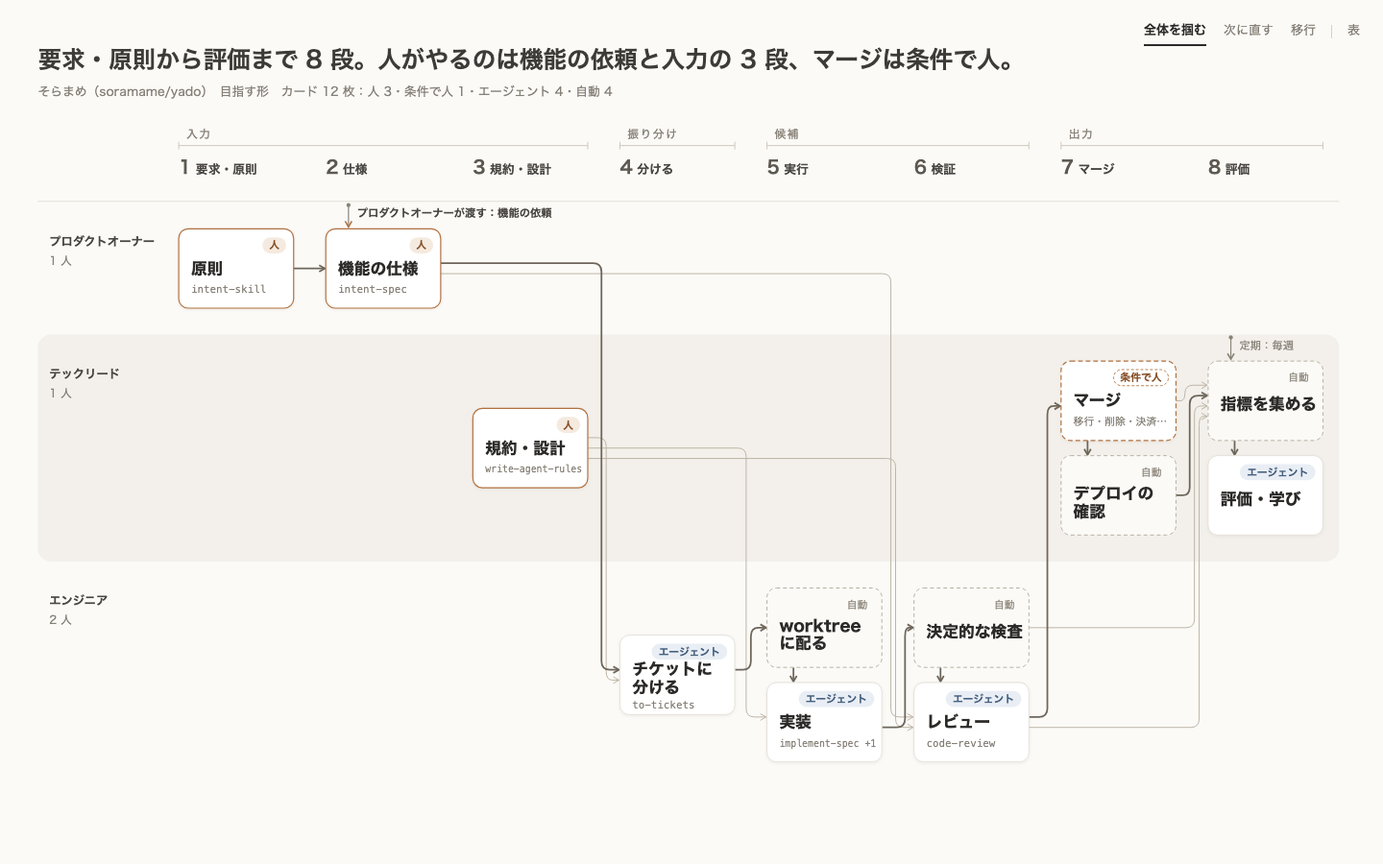
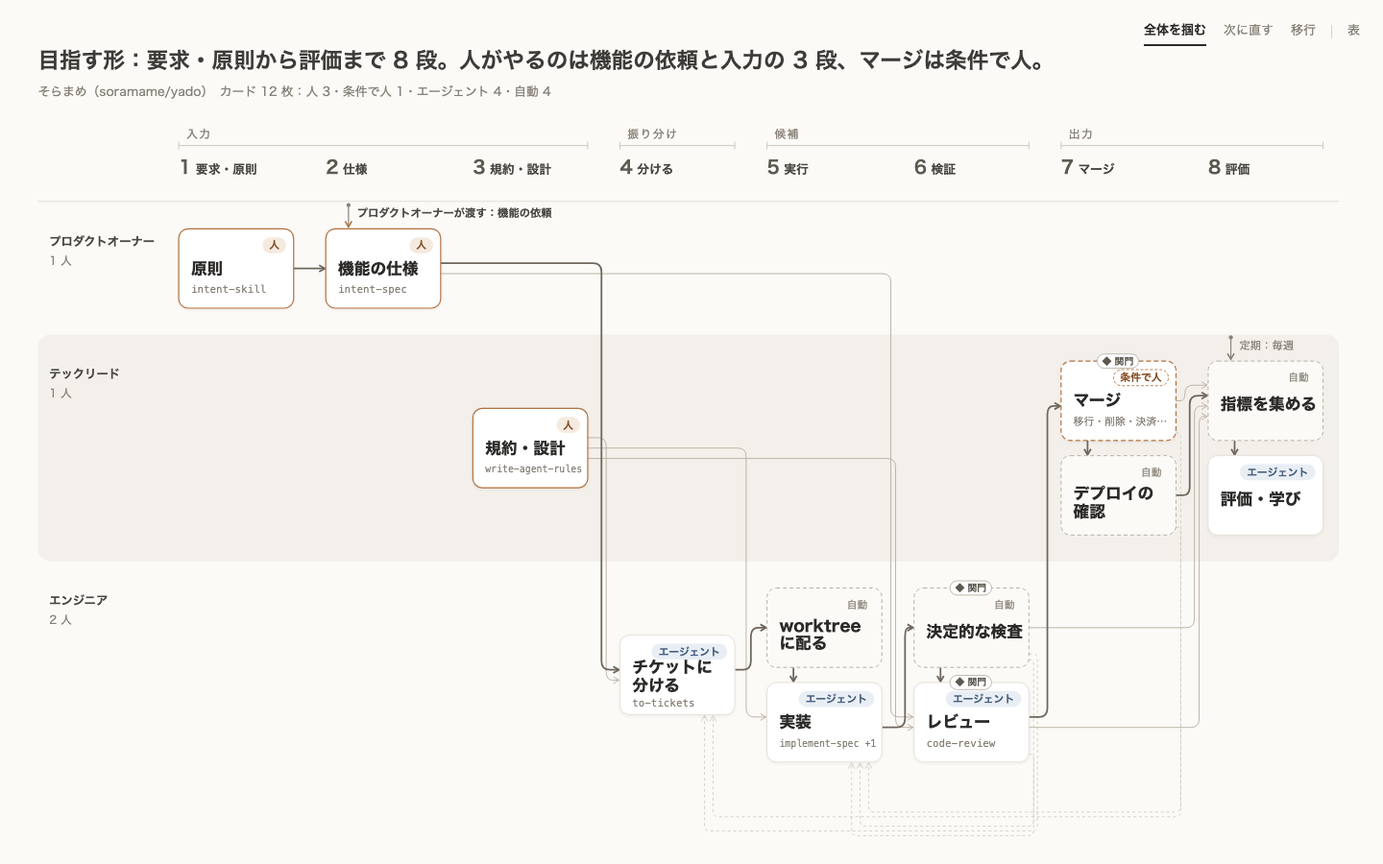
fix: 評価の直す順の案で図を直す（I1・c3・b の置き換え予定・V1 ほか）
- a：関門に小さな印、直しの線を細く薄い破線で出す（学びは出さない）。見出しの頭に「目指す形：」
- b：1 位のカードがこの先で置き換わるとき、見出しと 1 位の行に添える。「直しで戻る 2 本」
- c：選んだ段階の足りないものを中身まで出す。選んだ段階を見方を移っても残す（p=）
- 詳細の窓と表：短い名前を先に、題名を下に。足りないもの・戻り道は 1 行ずつ
- 表：ページそのものがスクロールする（キーボード・PageDown）
- 1280 幅の b・c：一覧を出したまま、名前を 14px 以上（見せ方 V1）
- 設計書：I1・V1 を決まったことへ移し、c3 の基準と決まったこと 7 を直す。試験を足す

diff --git a/create-frontier-team/canvas.html b/create-frontier-team/canvas.html
@@ -67,6 +67,10 @@
   .ph b { font-size: 13px; display: block; }
   .ph .n { display: block; color: #857f76; font-size: 11.5px; }
   .ph small { display: block; color: #5d5850; }
+  .ph ul { list-style: none; margin: 6px 0 0; padding: 6px 0 0; border-top: 1px solid #ece7df; }
+  .ph li { margin: 0 0 4px; color: #3d3b38; }
+  .ph li b { display: inline; font-size: 12px; margin-right: 4px; }
+  .g small { display: block; color: #857f76; font-size: 11.5px; margin-top: 2px; }
   .d { background: #fff; border: 1px solid #e6e1d8; border-radius: 8px; padding: 7px 10px; margin-bottom: 6px; }
   .d b { display: inline-block; min-width: 6.6em; font-size: 12px; }
   .d span { color: #3d3b38; }
@@ -74,13 +78,16 @@
   /* 詳細の窓（popover。モーダルにしない） */
   #tip { position: fixed; width: 350px; padding: 12px 14px; font-size: 12px; line-height: 1.65; background: #fff; border: 1px solid #e3ded5; border-radius: 10px; box-shadow: 0 2px 8px rgba(90,74,48,.10); z-index: 6; }
   #tip[hidden] { display: none; }
-  #tip h2 { font-size: 14px; margin: 0 26px 6px 0; }
+  #tip h2 { font-size: 14px; margin: 0 26px 0 0; }
+  #tip .full { color: #857f76; margin: 0 26px 6px 0; }
   #tip .x { position: absolute; right: 8px; top: 6px; border: 0; background: none; font-size: 16px; color: #857f76; cursor: pointer; padding: 0 4px; }
   #tip .r > span:first-child { display: inline-block; width: 6.4em; color: #857f76; vertical-align: top; }
   #tip.dock { column-width: 250px; column-gap: 24px; font-size: 11.5px; line-height: 1.55; padding: 10px 14px; overflow: auto; box-shadow: none; }
   #tip.dock h2 { column-span: all; }
   #tip.dock .r, #tip.dock li { break-inside: avoid; }
   #tip ul { list-style: none; padding: 0; margin: 4px 0 0; }
+  #tip ul.lines { display: inline-block; margin: 0; width: calc(100% - 6.4em); }
+  #tip ul.lines li { padding-left: 0; margin: 0 0 2px; }
   #tip li { margin: 0 0 6px; padding-left: 14px; position: relative; }
   #tip li i { position: absolute; left: 0; top: 6px; width: 7px; height: 7px; border-radius: 50%; background: #b8b0a3; }
   #tip li i.hum { background: #b0713f; }
@@ -93,7 +100,8 @@
   #tip li[aria-current="true"] { background: #f6f3ee; border-radius: 4px; }
 
   /* 表（見方とは別の、全文を読む・探す・印刷する所） */
-  #table { position: fixed; inset: 0; overflow: auto; padding: 64px 28px 28px; background: #fbfaf7; font-size: 12.5px; line-height: 1.55; }
+  #table { position: absolute; top: 0; left: 0; right: 0; min-height: 100%; padding: 64px 28px 28px; background: #fbfaf7; font-size: 12.5px; line-height: 1.55; outline: none; }
+  body[data-table] #top { background: #fbfaf7; padding: 4px 0 4px 12px; border-radius: 6px; }
   #table[hidden] { display: none; }
   #table h2 { font-size: 15px; margin: 0 0 10px; color: #3d3b38; }
   #table h3 { font-size: 13px; margin: 22px 0 8px; color: #3d3b38; }
@@ -101,6 +109,7 @@
   #table th, #table td { border: 1px solid #e3ded5; padding: 6px 8px; text-align: left; vertical-align: top; }
   #table th { background: #f3f0eb; font-weight: 600; white-space: nowrap; }
   #table td:nth-child(-n+2) { white-space: nowrap; }
+  #table td small { display: block; color: #857f76; }
   #table code { font-family: "SF Mono", Menlo, monospace; font-size: 11.5px; }
   #table ol { margin: 4px 0 0; padding-left: 18px; color: #5d5850; }
   @media print { #top { display: none; } #table { position: static; padding: 0; } }
@@ -121,7 +130,7 @@
 <main id="wrap" role="tabpanel"></main>
 <aside id="panel" aria-label="一覧"></aside>
 <div id="tip" role="dialog" aria-modal="false" aria-labelledby="tipTitle" hidden></div>
-<section id="table" aria-label="表" hidden></section>
+<section id="table" aria-label="表" tabindex="0" hidden></section>
 <script>
 (() => {
   "use strict";
@@ -364,6 +373,18 @@
     const ed = edges.filter((e) => e.kind === "data" && now(e) !== was(e) && [e.from, e.to].every((id) => now(byId.get(id)) && was(byId.get(id)))).map((e) => ({ e, added: now(e) }));
     return { add, rem, rep, chg, edges: ed };
   };
+  // b の 1 位のカードが、今の段階より後で無くなる・置き換わるなら、そう言う（決まったこと 7。重さの順は変えない）
+  const phShort = (i) => phases[i].name.split("：")[0].trim() || phases[i].name;
+  const laterOf = (o) => {
+    if (!phases.length) return "";
+    for (const id of o.nodes) {
+      const n = byId.get(id), u = n.until ? phaseIx.get(n.until) : -1;
+      if (u <= CUR) continue;
+      return phShort(u) + (diffAt(u).rep.some((r) => r.from.includes(id)) ? " で置き換える予定" : " で無くす予定");
+    }
+    return "";
+  };
+  const laterNote = (o) => { const t = laterOf(o); return t ? "（" + t + "）" : ""; };
   const changeOf = (df, id) => {
     if (df.add.includes(id)) return "足す";
     const r = df.rep.find((q) => q.to.includes(id) || q.from.includes(id));
@@ -529,6 +550,29 @@
     const k = soft >= cut * 0.3 ? soft : kind >= cut * 0.3 ? kind : cut;
     return k;
   };
+  // カードの名前は 17（1440×900 でどの見方でも 14px 以上）。1 行に収まらなければ 2 行にし、それでも収まらなければ … で切る。
+  // b・c で一覧のぶん図が小さくなり、名前が 14px を下回るとき（1280 幅など）だけ、名前の字を大きくして 14px 以上にする（見せ方 V1）。
+  const NAME = 17;
+  const setName = (n, fs) => {
+    if (n.fs === fs) return;
+    n.fs = fs; n.nm.setAttribute("font-size", fs);
+    if (!n.lineMemo.has(fs)) {
+      n.nm.replaceChildren(); n.nm.textContent = n.card;
+      let lines;
+      if (n.nm.getComputedTextLength() <= room) lines = [n.card];
+      else {
+        const s = n.card; let cut = 1;
+        for (let k = 1; k < s.length; k++) { n.nm.textContent = s.slice(0, k); if (n.nm.getComputedTextLength() <= room) cut = k; else break; }
+        cut = breakAt(s, cut);
+        n.nm.textContent = s.slice(cut).trim(); fitText(n.nm, s.slice(cut).trim());
+        lines = [s.slice(0, cut).trim(), n.nm.textContent];
+      }
+      n.lineMemo.set(fs, lines);
+    }
+    n.lines = n.lineMemo.get(fs);
+    const { x } = P.get(n.id);
+    n.nm.replaceChildren(); n.lines.forEach((ln) => { const t = sv("tspan", { x: x + 13 }, n.nm); t.textContent = ln; });
+  };
   nodes.forEach((n) => {
     const { x, y } = P.get(n.id);
     const g = sv("g", { class: "card", "data-node-id": n.id, role: "button", tabindex: -1, "aria-haspopup": "dialog", "aria-expanded": "false" }, lay.card);
@@ -539,6 +583,12 @@
     n.tl = tx(g, x + 13, y + 21, "", { "font-size": 10.5, "font-family": GOTH });
     n.nm = tx(g, x + 13, y + 48, "", { "font-size": 17, "font-weight": 700, fill: INK, "font-family": GOTH });
     n.sub = tx(g, x + 13, y + 68, "", { "font-size": 11, "font-family": GOTH });
+    // 関門の印（a）：カードの上の縁に載せる小さな札。右上の関わりの札と、上から入る矢印（左から 28）を避ける
+    if (n.kind === "gate") {
+      n.gateG = sv("g", { class: "gate" }, g);
+      sv("rect", { x: x + 38, y: y - 7.5, width: 44, height: 15, rx: 7.5, fill: "#fff", stroke: "#b8b0a3", "stroke-width": 0.9 }, n.gateG);
+      tx(n.gateG, x + 60, y + 3.6, "◆ 関門", { "font-size": 10, "font-weight": 600, fill: "#5d5850", "text-anchor": "middle", "font-family": GOTH });
+    }
     n.dots = sv("g", {}, g);
     n.checks.forEach((c, i) => { c.dot = sv("circle", { "data-check-id": c.key, cy: y + 17, r: 2.8 }, n.dots); });
     n.marksG = sv("g", {}, g);
@@ -551,23 +601,14 @@
     }
     n.muted = ms.length > 0 && ms.every((m) => m.level === "muted");
     n.g = g;
-    // カードの名前は 17（1440×900 でどの見方でも 14px 以上）。1 行に収まらなければ 2 行にし、それでも収まらなければ … で切る。
-    n.nm.textContent = n.card;
-    if (n.nm.getComputedTextLength() <= room) n.lines = [n.card];
-    else {
-      const s = n.card; let cut = 1;
-      for (let k = 1; k < s.length; k++) { n.nm.textContent = s.slice(0, k); if (n.nm.getComputedTextLength() <= room) cut = k; else break; }
-      cut = breakAt(s, cut);
-      n.nm.textContent = s.slice(cut).trim(); fitText(n.nm, s.slice(cut).trim());
-      n.lines = [s.slice(0, cut).trim(), n.nm.textContent];
-    }
-    n.nm.textContent = "";
-    n.lines.forEach((ln) => { const t = sv("tspan", { x: x + 13 }, n.nm); t.textContent = ln; });
+    n.lineMemo = new Map(); n.fs = 0;
+    setName(n, NAME);
   });
 
   // ---- 状態 ----
   const CUR = Math.max(0, phases.findIndex((ph) => ph.current));
   const S = { view: "a", p: NP - 1, sel: null, selList: null, ck: null, gap: null, table: false };
+  let nameFS = NAME;
   const effP = () => (S.view === "a" ? NP - 1 : S.view === "b" ? CUR : S.p);
   const VB = () => (S.view === "a" ? [0, W] : [32, W - 48]);
 
@@ -586,17 +627,18 @@
         ...uniq(HN.filter((n) => !(inAll && inSt.includes(n.stage))).map((n) => stName(n.stage))),
       ];
       const cst = uniq(Cn.map((n) => stName(n.stage)));
-      const h = stages[0].name + "から" + stages[stages.length - 1].name + "まで " + stages.length + " 段。" +
+      // どの段階の図かを見出しの頭で言う（a は最後の段階＝目指す形で判定する）
+      const h = (phases.length ? phName(p) + "：" : "") + stages[0].name + "から" + stages[stages.length - 1].name + "まで " + stages.length + " 段。" +
         (items.length ? "人がやるのは" + uniq(items).join("と") + (cst.length ? "、" + cst.join("・") + "は条件で人" : "") + "。" : cst.length ? "人は" + cst.join("・") + "で条件つきで関わる。" : "人は関わらない。");
       const cnt = (k) => ns.filter((n) => INV(n, p) === k).length;
-      return [h, [teamLine, phName(p), `カード ${ns.length} 枚：人 ${cnt("human")}・条件で人 ${cnt("cond")}・エージェント ${cnt("agent")}・自動 ${cnt("auto")}`].filter(Boolean).join("　")];
+      return [h, [teamLine, `カード ${ns.length} 枚：人 ${cnt("human")}・条件で人 ${cnt("cond")}・エージェント ${cnt("agent")}・自動 ${cnt("auto")}`].filter(Boolean).join("　")];
     }
     if (view === "b") {
       const at = phases.length ? "今の段階「" + phName(p) + "」で判定。" : "";
       const l = G.list;
       if (!l.length) return [(phases.length ? "今の段階「" + phName(p) + "」で" : "") + "足りないものは無い。", at + "　" + teamLine];
       const t = l[0], nm = t.nodes.length ? "「" + t.nodes.map(short).join("・") + "」" : gapWho(t);
-      return ["次に直すのは" + nm + "：" + t.text.split("。")[0] + (t.checkTitles.length > 1 ? "（" + t.checkTitles.join("・") + "）" : "") + "。",
+      return ["次に直すのは" + nm + laterNote(t) + "：" + t.text.split("。")[0] + (t.checkTitles.length > 1 ? "（" + t.checkTitles.join("・") + "）" : "") + "。",
         at + "足りないもの " + l.length + " 件（重さの順に右の一覧）　" + teamLine];
     }
     if (!phases.length) return ["移行の段階は書かれていない。", "仕様書に phases を書くと、今から目指す形までの段階をここで切り替えて見られる。　" + teamLine];
@@ -630,6 +672,12 @@
     document.getElementById("tableBtn").setAttribute("aria-pressed", String(S.table));
     document.querySelectorAll("#views [role=tab]").forEach((b) => { const on = b.dataset.v === view; b.setAttribute("aria-selected", String(on)); b.tabIndex = on ? 0 : -1; });
     wrap.setAttribute("aria-labelledby", "tab-" + view);
+    renderFold();
+    // 図の倍率で名前が 14px を下回るなら、名前の字を大きくする（1280 幅の b・c。見せ方 V1）
+    if (!S.table) {
+      const wr = wrap.getBoundingClientRect(), sc = Math.min(wr.width / vw, wr.height / H);
+      nameFS = sc > 0 ? Math.min(21, Math.max(NAME, Math.ceil(14.05 / sc * 2) / 2)) : NAME;
+    }
 
     // 見出し
     const [h1, h2] = headline(view, p, G, df);
@@ -667,9 +715,10 @@
     if (view === "b") {
       groupBy(edges.filter((e) => e.kind !== "data" && liveE(e)), (e) => e.to).forEach((l, to) => {
         const b = P.get(to), kinds = uniq(l.map((e) => e.kind));
-        const t = kinds.map((k) => { const c = l.filter((e) => e.kind === k).length; return EDGE_KIND[k] + (c > 1 ? " " + c : ""); }).join("・");
+        // 数と分かる言い方にする（「直しで戻る 2 本」）
+        const t = kinds.map((k) => EDGE_KIND[k] + "で戻る " + l.filter((e) => e.kind === k).length + " 本").join("・");
         const maxBi = Math.max(...BACK.filter((e) => e.to === to).map((e) => e.bi));
-        tx(lay.dyn, b.x + TW - 14 - maxBi * 9 - 8, b.y + TH + 15, "戻る：" + t, { "font-size": 10.5, fill: "#7d7468", "text-anchor": "end", "font-family": GOTH });
+        tx(lay.dyn, b.x + TW - 14 - maxBi * 9 - 8, b.y + TH + 15, t, { "font-size": 10.5, fill: "#7d7468", "text-anchor": "end", "font-family": GOTH });
       });
     }
 
@@ -680,7 +729,11 @@
     const goneE = new Set(view === "c" ? df.edges.filter((x) => !x.added).map((x) => x.e.id) : []);
     edges.forEach((e) => {
       let show, col = "#bdb4a6", w = 1, dash = null, layer = lay.thin;
-      if (e.kind !== "data") {
+      if (e.kind !== "data" && view === "a") {
+        // a：直しの線は細く薄い破線で、いつも出す（データの線より軽く。学びの線は出さない。情報 I1）
+        show = e.kind === "fix" && liveE(e);
+        col = "#cdc5b8"; w = 0.8; dash = "3 3"; layer = lay.back;
+      } else if (e.kind !== "data") {
         show = view === "b" && liveE(e) && (selIds.has(e.from) || selIds.has(e.to));
         col = "#7d7468"; w = 1.1; dash = e.kind === "fix" ? "5 3" : "1.5 3"; layer = lay.back;
       } else if (goneE.has(e.id)) { show = true; col = "#a39a8c"; w = 1.2; dash = "2 3"; }
@@ -711,6 +764,7 @@
       n.g.style.opacity = n.muted && view !== "c" ? 0.5 : "";
       n.badge.style.display = "none"; n.dots.style.display = "none"; n.sub.textContent = ""; n.sub.removeAttribute("textLength"); n.sub.removeAttribute("lengthAdjust"); n.tl.textContent = "";
       n.marksG.style.display = view === "c" || gh ? "none" : "";
+      if (n.gateG) n.gateG.style.display = view === "a" && !gh ? "" : "none";
       let label = [n.card, INVL[inv], "段 " + (stageIx.get(n.stage) + 1) + "「" + stName(n.stage) + "」", roName(n.role)];
       if (gh) {
         n.frame.setAttribute("fill", "none"); n.frame.setAttribute("stroke", "#b8b0a3"); n.frame.setAttribute("stroke-width", 1); n.frame.setAttribute("stroke-dasharray", "3 3"); n.frame.removeAttribute("filter");
@@ -736,7 +790,8 @@
           n.badgeT.setAttribute("x", lx + lw / 2); n.badgeT.textContent = lb;
           n.badgeT.setAttribute("fill", hu || cd ? HUMTX : au ? "#958e83" : AGTX); n.badgeT.setAttribute("font-weight", au ? 400 : 600);
         }
-        // 左上：b は関門の戻しにくさ、c は段階での変化
+        // 左上：a は関門の印、b は関門の戻しにくさ、c は段階での変化
+        if (view === "a" && n.kind === "gate") label.push("関門");
         if (view === "b" && n.kind === "gate") {
           n.tl.textContent = RISKS[n.risk] || "戻しにくさ？"; n.tl.setAttribute("fill", n.risk === "irreversible" ? INK : SUB); n.tl.setAttribute("font-weight", n.risk === "irreversible" ? 700 : 400);
         }
@@ -776,10 +831,11 @@
         }
       }
       // 名前の位置（1 行か 2 行か、下の 1 行があるか）
-      const hasSub = !!n.sub.textContent, two = n.lines.length > 1;
-      const ys = two ? (hasSub ? [42, 61] : [46, 65]) : [hasSub ? 48 : 52];
+      setName(n, nameFS);
+      const hasSub = !!n.sub.textContent, two = n.lines.length > 1, lh = Math.round(nameFS * 1.12);
+      const ys = two ? (hasSub ? [40, 40 + lh] : [46, 46 + lh]) : [hasSub ? 48 : 52];
       [...n.nm.children].forEach((t, i) => t.setAttribute("y", y + ys[i]));
-      n.sub.setAttribute("y", y + (two ? 77 : 68));
+      n.sub.setAttribute("y", y + (two ? 75 : 68)); // 2 行のときも、下の端の注記の札（y + 77 から）に重ねない
       n.g.setAttribute("aria-label", label.join("、"));
     });
     const vis = nodes.filter((n) => n.shown);
@@ -789,13 +845,12 @@
 
     renderPanel(G, df);
     renderTip();
-    renderFold();
   };
 
   // ---- 横の一覧（b・c）：listbox ----
   const panel = document.getElementById("panel");
   const fold = el("button", null, "一覧をたたむ"); fold.id = "fold"; fold.type = "button"; fold.setAttribute("aria-controls", "panel");
-  fold.addEventListener("click", () => { document.body.toggleAttribute("data-fold"); renderFold(); placeTip(); });
+  fold.addEventListener("click", () => { document.body.toggleAttribute("data-fold"); render(); });
   const listbox = (label, id) => { const lb = el("div"); lb.setAttribute("role", "listbox"); lb.setAttribute("aria-label", label); lb.id = id; return lb; };
   const option = (cls, key, selected, onPick) => {
     const o = el("div", cls); o.setAttribute("role", "option"); o.dataset.key = key; o.setAttribute("aria-selected", String(!!selected)); o.tabIndex = -1;
@@ -817,7 +872,9 @@
         if (o.tier !== last) { grp = el("div"); grp.setAttribute("role", "group"); const t = el("div", "tier", TIER[o.tier]); t.id = "tier" + o.tier; grp.setAttribute("aria-labelledby", t.id); grp.append(t); lb.append(grp); last = o.tier; }
         const op = option("g" + (i === 0 ? " first" : ""), o.key, S.gap === o.key, () => { S.gap = o.key; S.selList = o.nodes.slice(); S.sel = o.nodes[0] || null; S.ck = o.checks.length ? o.checks.slice() : null; sync(); });
         op.append(el("b", null, gapWho(o)), el("span", null, gapText(o)));
-        op.setAttribute("aria-label", (i === 0 ? "次に直す。" : "") + gapWho(o) + "：" + gapText(o));
+        const later = i === 0 ? laterOf(o) : "";
+        if (later) op.append(el("small", null, later));
+        op.setAttribute("aria-label", (i === 0 ? "次に直す。" : "") + gapWho(o) + "：" + gapText(o) + (later ? "。" + later : ""));
         grp.append(op);
       });
       if (!G.list.length) panel.append(el("p", "sub", "足りないものは無い。"));
@@ -828,8 +885,16 @@
       const lb = listbox("段階", "phaseList");
       phases.forEach((ph, i) => {
         const op = option("ph", ph.id, i === p, () => { S.p = i; S.sel = null; S.selList = null; S.ck = null; sync(); });
-        op.append(el("b", null, ph.name + (i === CUR && phases.some((x) => x.current) ? "（今）" : "")), el("span", "n", "足りない " + gapsAt(i).list.length));
+        const gl = gapsAt(i).list;
+        op.append(el("b", null, ph.name + (i === CUR && phases.some((x) => x.current) ? "（今）" : "")), el("span", "n", "足りない " + gl.length));
         if (ph.note) op.append(el("small", null, ph.note));
+        // 選んだ段階には、残る足りないものの中身を出す（同じ理由は 1 行。並びは b と同じ重さの順。問い c3）
+        if (i === p && gl.length) {
+          const ul = el("ul"); ul.setAttribute("aria-label", ph.name + "に残る足りないもの");
+          gl.forEach((o) => { const li = el("li"); li.append(el("b", null, gapWho(o)), document.createTextNode(gapText(o))); ul.append(li); });
+          op.append(ul);
+          op.setAttribute("aria-label", ph.name + "、足りない " + gl.length + "：" + gl.map((o) => gapWho(o) + "：" + gapText(o)).join("。"));
+        }
         lb.append(op);
       });
       rove(lb); panel.append(lb);
@@ -879,10 +944,14 @@
     const view = S.view, p = effP(), G = gapsAt(p), first = G.list.length ? G.list[0] : null;
     const liveE = edges.filter((e) => aliveAt(e, p) && aliveAt(byId.get(e.from), p) && aliveAt(byId.get(e.to), p));
     tip.replaceChildren();
-    const h = el("h2", null, n.title); h.id = "tipTitle";
+    // 題はカードと同じ短い名前。題名の全文が違えば、その下に添える（図と表を照らし合わせられるように）
+    const h = el("h2", null, n.card); h.id = "tipTitle";
     const x = el("button", "x", "×"); x.type = "button"; x.setAttribute("aria-label", "詳細を閉じる"); x.addEventListener("click", () => closeTip(true));
     tip.append(h, x);
+    if (n.title !== n.card) tip.append(el("div", "full", n.title)); else h.style.marginBottom = "6px";
     const row = (k, v) => { if (v == null || v === "") return; const d = el("div", "r"); d.append(el("span", null, k), typeof v === "string" ? document.createTextNode(v) : v); tip.append(d); };
+    // 2 つ以上あるものは「／」でつながず、1 行ずつ
+    const lines = (list) => { if (!list.length) return ""; if (list.length === 1) return list[0]; const ul = el("ul", "lines"); list.forEach((t) => ul.append(el("li", null, t))); return ul; };
     const inv = INV(n, aliveAt(n, p) ? p : p - 1);
     const invText = { human: "人がやる" + (n.layer === "upstream" && n.session !== "human" ? "（エージェントが下書き）" : ""), cond: "条件で人：" + condAt(n, p), agent: "エージェント（" + (n.session === "plan" ? "計画" : "実行") + "のセッション）", auto: "自動（コード・CI）" }[inv];
     const tag = (e) => (e.label ? "（" + e.label + "）" : "") + mk("edge:" + e.id).map((m) => " " + markLine(m)).join("");
@@ -891,6 +960,10 @@
       row("関わり", invText); row("スキル", n.skills.join("、") || "—"); row("成果物", n.output || "—");
       row("受け取る", liveE.filter((e) => e.kind === "data" && e.to === id).map((e) => short(e.from) + tag(e)).join("、") || "—");
       row("渡す", liveE.filter((e) => e.kind === "data" && e.from === id).map((e) => short(e.to) + tag(e)).join("、") || "—");
+      // 関門と直しの線（a3：どこで判定し、通らなければどこへ戻すか）
+      if (n.kind === "gate") row("判定", n.check || "—");
+      row("通らなければ", lines(liveE.filter((e) => e.kind === "fix" && e.from === id).map((e) => short(e.to) + "へ戻す" + tag(e))));
+      row("直しで戻る", lines(liveE.filter((e) => e.kind === "fix" && e.to === id).map((e) => short(e.from) + "から" + tag(e))));
       nodeMarks();
     }
     if (view === "b") {
@@ -898,7 +971,7 @@
       if (n.kind === "gate") row("戻しにくさ", RISK[n.risk] || "書かれていない");
       row("判定", n.check || "—"); row("スキル", n.skills.join("、") || "—");
       const g = G.list.filter((o) => o.nodes.includes(id) && !(o.checks.length && o.tier === 4));
-      if (g.length) row("足りない", g.map((o) => (o === first ? "【次に直す】" : "") + o.text).join("／"));
+      if (g.length) row("足りない", lines(g.map((o) => (o === first ? "【次に直す】" : "") + o.text + (o === first ? laterNote(o) : ""))));
       const cks = n.checks.filter((c) => aliveAt(c, p));
       if (cks.length) {
         const ul = el("ul");
@@ -914,7 +987,7 @@
         row("中の検査", ul);
       }
       const back = liveE.filter((e) => e.kind !== "data" && (e.from === id || e.to === id)).map((e) => EDGE_KIND[e.kind] + "：" + short(e.from) + " → " + short(e.to) + tag(e));
-      row("戻り道", back.join("／") || "—");
+      row("戻り道", lines(back) || "—");
       nodeMarks();
     }
     if (view === "c") {
@@ -939,11 +1012,13 @@
       tip.classList.remove("dock"); tip.style.width = "";
     }
     const near = new Set([id, ...(S.selList || [])]);
-    edges.forEach((e) => { if (aliveAt(e, p) && (e.kind === "data" || view === "b") && (e.from === id || e.to === id)) { near.add(e.from); near.add(e.to); } });
+    const routeOf = (e) => view === "b" || (view === "a" && e.kind === "fix");
+    edges.forEach((e) => { if (aliveAt(e, p) && (e.kind === "data" || routeOf(e)) && (e.from === id || e.to === id)) { near.add(e.from); near.add(e.to); } });
     const box = (g) => { const r = g.getBoundingClientRect(); return { l: r.left - 6, t: r.top - 6, r: r.right + 6, b: r.bottom + 6 }; };
     const cards = nodes.filter((n) => n.shown).map((n) => ({ id: n.id, r: box(n.g) }));
     const guard = cards.filter((c) => near.has(c.id)).map((c) => c.r);
     if (view === "b") edges.filter((e) => e.g.classList.contains("route")).forEach((e) => guard.push(box(e.g)));
+    if (view === "a") edges.filter((e) => e.g.classList.contains("route") && (e.from === id || e.to === id)).forEach((e) => guard.push(box(e.g)));
     guard.push({ l: wr.left, t: wr.top, r: wr.right, b: wr.top + (TOP + 4) * sc });
     const tw = tip.offsetWidth, th = tip.offsetHeight;
     const ov = (a, b) => Math.max(0, Math.min(a.r, b.r) - Math.max(a.l, b.l)) * Math.max(0, Math.min(a.b, b.b) - Math.max(a.t, b.t));
@@ -1016,7 +1091,8 @@
 
   // ---- 見方の切り替え：tablist（← → で隣へ移って切り替え、Home・End で端へ） ----
   const tabs = [...document.querySelectorAll("#views [role=tab]")];
-  const setView = (v) => { figStop = null; S.view = v; S.sel = null; S.selList = null; S.ck = null; S.gap = null; S.table = false; if (v !== "c") S.p = NP - 1; sync(); };
+  // c で選んだ段階は、ほかの見方へ移っても残す（hash の p=。a・b の判定には使わない）
+  const setView = (v) => { figStop = null; S.view = v; S.sel = null; S.selList = null; S.ck = null; S.gap = null; S.table = false; sync(); };
   tabs.forEach((b, i) => {
     b.addEventListener("click", () => setView(b.dataset.v));
     b.addEventListener("keydown", (ev) => {
@@ -1025,7 +1101,7 @@
       ev.preventDefault(); const t = tabs[(j + tabs.length) % tabs.length]; setView(t.dataset.v); t.focus();
     });
   });
-  document.getElementById("tableBtn").addEventListener("click", () => { S.table = !S.table; S.sel = null; S.selList = null; S.ck = null; S.gap = null; sync(); });
+  document.getElementById("tableBtn").addEventListener("click", () => { S.table = !S.table; S.sel = null; S.selList = null; S.ck = null; S.gap = null; sync(); scrollTo(0, 0); });
 
   // ---- 表（全文を読む・探す・印刷する所。段階に関係なく全部を並べる） ----
   const span = (o) => phases.length && (o.since || o.until) ? (o.since ? phases[phaseIx.get(o.since)].name : phases[0].name) + " から" + (o.until ? "（" + phases[phaseIx.get(o.until)].name + " で無くなる）" : "") : "すべての段階";
@@ -1045,7 +1121,7 @@
       const tr = el("tr"); tr.dataset.nodeId = n.id;
       const td = (...c) => { const d = el("td"); c.forEach((x) => d.append(typeof x === "string" ? document.createTextNode(x) : x)); tr.append(d); return d; };
       td(stName(n.stage)); td(roName(n.role));
-      const nc = td(n.title);
+      const nc = td(el("b", null, n.card)); if (n.title !== n.card) nc.append(el("small", null, n.title));
       if (n.checks.length) {
         const ol = el("ol");
         n.checks.forEach((c) => {
@@ -1070,7 +1146,7 @@
     if (ed.length) {
       sec.append(el("h3", null, "戻り道（直し・学び）"));
       const t2 = el("table"), h2 = el("tr"); ["種類", "から", "へ", "渡すもの"].concat(phases.length ? ["段階"] : []).forEach((x) => h2.append(el("th", null, x))); t2.append(h2);
-      ed.forEach((e) => { const tr = el("tr"); tr.dataset.edgeId = e.id; [EDGE_KIND[e.kind], byId.get(e.from).title, byId.get(e.to).title, e.label + mk("edge:" + e.id).map((m) => " " + markLine(m)).join("")].concat(phases.length ? [span(e)] : []).forEach((x) => tr.append(el("td", null, x))); t2.append(tr); });
+      ed.forEach((e) => { const tr = el("tr"); tr.dataset.edgeId = e.id; [EDGE_KIND[e.kind], short(e.from), short(e.to), e.label + mk("edge:" + e.id).map((m) => " " + markLine(m)).join("")].concat(phases.length ? [span(e)] : []).forEach((x) => tr.append(el("td", null, x))); t2.append(tr); });
       sec.append(t2);
     }
     const lost = marks.filter((m) => !m.found);
@@ -1097,7 +1173,7 @@
   };
   const sync = () => {
     const q = [S.view];
-    if (S.view === "c" && S.p !== NP - 1 && phases.length) q.push("p=" + encodeURIComponent(phases[S.p].id));
+    if (S.p !== NP - 1 && phases.length) q.push("p=" + encodeURIComponent(phases[S.p].id));
     if (S.sel) q.push("sel=" + encodeURIComponent(S.sel));
     if (S.gap) q.push("g=" + S.gap);
     if (S.table) q.push("table");
@@ -1106,7 +1182,7 @@
     render();
   };
   addEventListener("hashchange", () => { parse(); render(); });
-  addEventListener("resize", () => { renderFold(); placeTip(); });
+  addEventListener("resize", () => { render(); });
   parse();
   render();
   if (document.fonts && document.fonts.ready) document.fonts.ready.then(() => placeTip());
